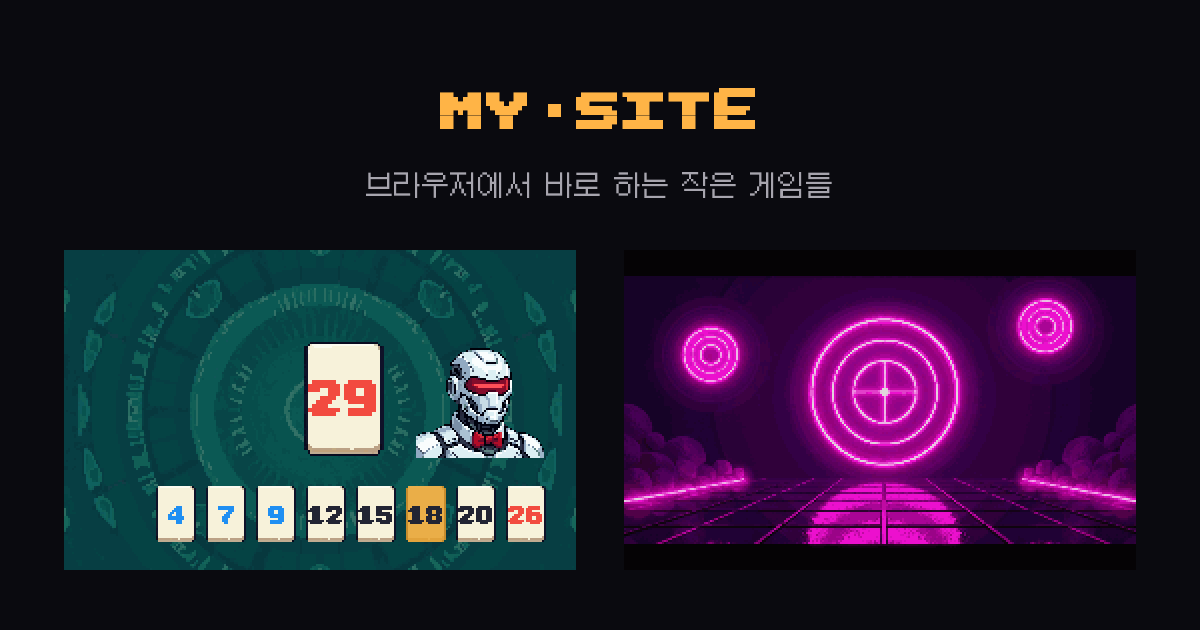
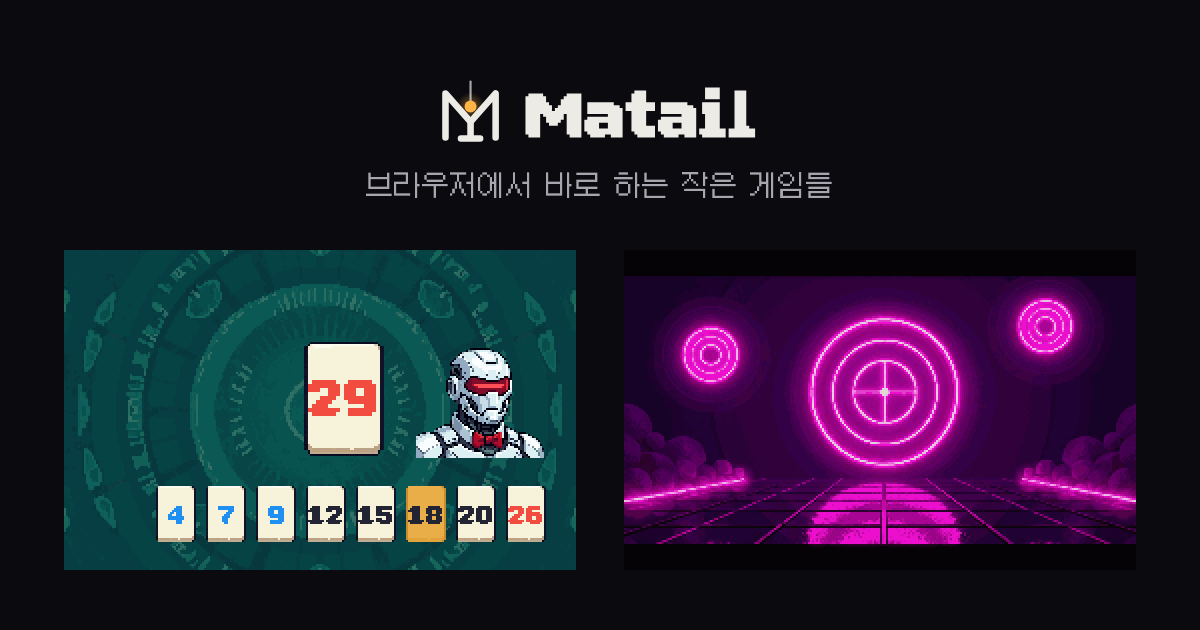
feat: 사이트 이름을 Matail 로 — 상단 마크 · 제목 · og · 파비콘
- Brand.astro: 줄에 매달린 전구가 M 이자 마티니 잔인 선 안에 들어가는 새 마크, 이름 Matail
- 모든 페이지 제목 · og:site_name · 인트로 부팅 화면 · 관리자 제목
- favicon.svg/.ico 를 새 파비콘으로, og/site.png 제목을 새 락업으로
- 리포 · Worker 이름과 workers.dev 주소는 그대로 (배포 · 서치 콘솔 유지)

Claude-Session: https://claude.ai/code/session_01QDkmo3sYNRet5AZkAdoHBh

Changed region(s): [[0.3392, 0.1206, 0.6475, 0.2413]]

diff --git a/public/games/streams-unity/index.html b/public/games/streams-unity/index.html
@@ -5,11 +5,11 @@
   <head>
     <meta charset="utf-8">
     <meta name="viewport" content="width=device-width, initial-scale=1.0">
-    <title>The STREAMS+ — 숫자 카드 퍼즐 AI 대전 · my-site</title>
+    <title>The STREAMS+ — 숫자 카드 퍼즐 AI 대전 · Matail</title>
     <meta name="description" content="카드 20장을 한 장씩 받아 20칸에 놓고, 작거나 같은 숫자로 길게 이을수록 점수가 커지는 숫자 퍼즐. 같은 카드를 받는 AI와 점수를 겨뤄요. 난이도 5단계와 튜토리얼, 설치 없이 브라우저에서 바로.">
     <link rel="canonical" href="https://my-site.matail.workers.dev/games/streams-unity/">
     <meta property="og:type" content="website">
-    <meta property="og:site_name" content="my-site">
+    <meta property="og:site_name" content="Matail">
     <meta property="og:locale" content="ko_KR">
     <meta property="og:title" content="The STREAMS+ — 숫자 카드 퍼즐 AI 대전">
     <meta property="og:description" content="카드 20장을 한 장씩 받아 20칸에 놓고, 작거나 같은 숫자로 길게 이을수록 점수가 커지는 숫자 퍼즐. 같은 카드를 받는 AI와 점수를 겨뤄요. 난이도 5단계와 튜토리얼, 설치 없이 브라우저에서 바로.">

diff --git a/admin/page.ts b/admin/page.ts
@@ -6,7 +6,7 @@ export const PAGE = `<!doctype html>
 <meta charset="utf-8">
 <meta name="viewport" content="width=device-width, initial-scale=1">
 <meta name="robots" content="noindex">
-<title>my-site 관리자</title>
+<title>Matail 관리자</title>
 <link rel="stylesheet" href="https://cdn.jsdelivr.net/gh/orioncactus/pretendard@v1.3.9/dist/web/variable/pretendardvariable-dynamic-subset.min.css">
 <style>
   :root { --bg:#0a0a0f; --card:#111116; --panel:#16161c; --line:rgba(255,255,255,.07); --ink:#edebe6; --ink-2:#a7a5ae; --ink-3:#7c7a84;

diff --git a/src/styles/global.css b/src/styles/global.css
@@ -1,5 +1,5 @@
 /* ==========================================================================
-   my-site — 디자인 시스템 "심야 작업실 (late-night studio)"
+   Matail — 디자인 시스템 "심야 작업실 (late-night studio)"
    전등 하나 켜진 어두운 방. 따뜻한 앰버 빛 + 차가운 검정 + 라임 포인트.
    ========================================================================== */
 

diff --git a/README.md b/README.md
@@ -1,4 +1,4 @@
-# my-site
+# Matail
 
 한 명이 만드는 작은 게임 스튜디오 사이트. Astro 6 정적 사이트 + Decap CMS.
 디자인 콘셉트는 **심야 작업실** — 거의 검정에 가까운 배경에 전등 하나의 따뜻한 앰버 빛.
@@ -921,7 +921,8 @@ h1, h2, h3, h4 {
 
 ## 로고 (`public/brand/`)
 
-새 이름 **Matail(맛테일 — '맛있는칵테일')** 의 로고. 아직 사이트에는 연결하지 않았습니다.
+사이트 이름 **Matail(맛테일 — '맛있는칵테일')** 의 로고. 상단 마크(`Brand.astro`)·파비콘·미리보기 그림(`og/site.png`)에 씁니다.
+리포 · Worker 이름과 주소(`my-site.matail.workers.dev`)는 그대로 `my-site` 입니다 — 바꾸면 배포와 서치 콘솔 확인이 끊깁니다.
 
 마크 하나에 세 가지가 겹칩니다.
 
